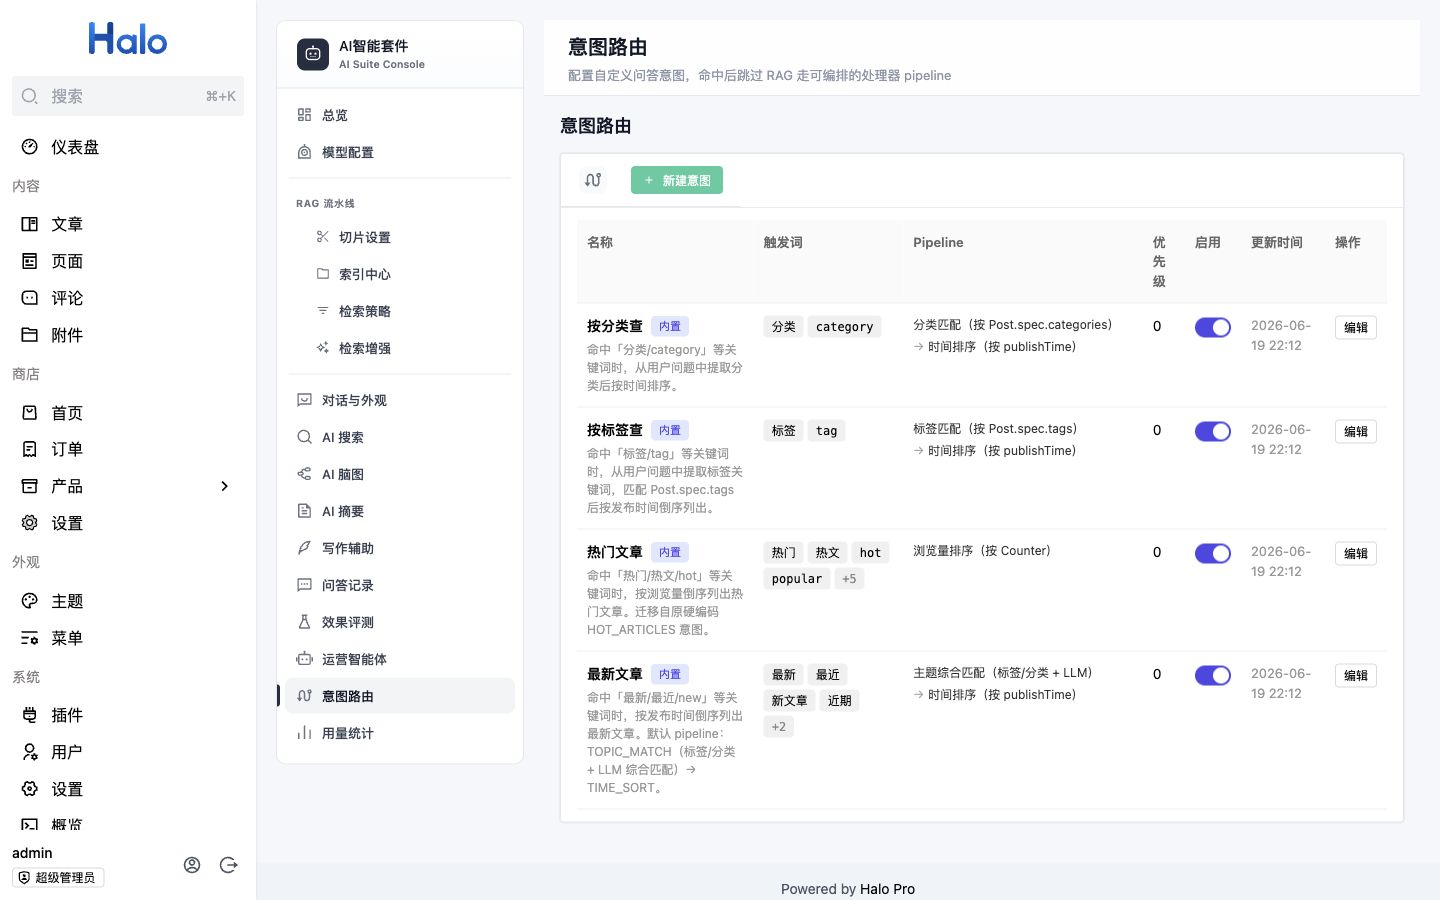
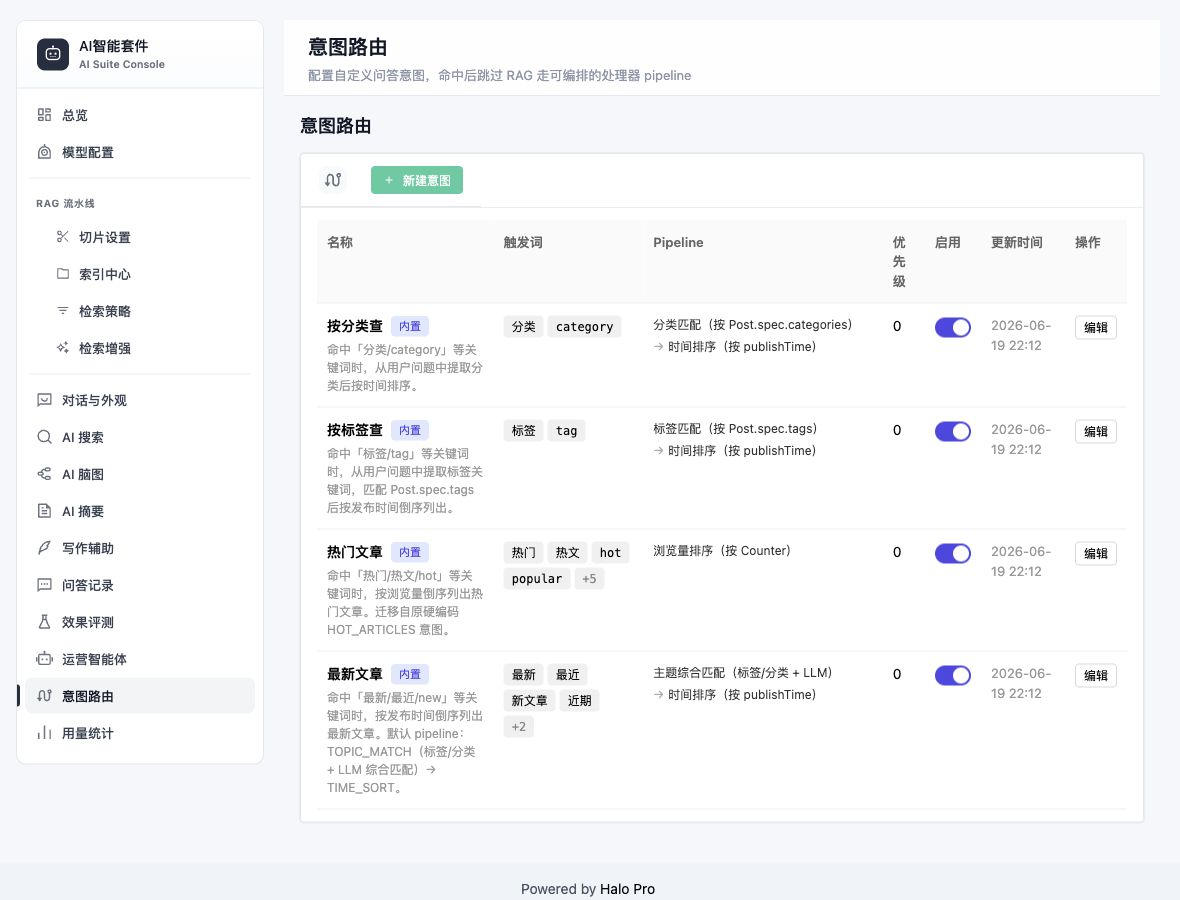
docs: expand README interface gallery

diff --git a/README.md b/README.md
@@ -61,23 +61,41 @@
 
 ### 访客端
 
+#### RAG 智能问答
+
+[![访客端 RAG 智能问答与文章引用](assets/readme/screenshots/visitor-chat.jpg)](assets/readme/screenshots/visitor-chat.jpg)
+
+基于博客内容回答，展示文章引用与反馈操作。
+
+#### 文章 AI 脑图
+
 <p align="center">
-  <a href="assets/readme/screenshots/visitor-chat.jpg"><img src="assets/readme/screenshots/visitor-chat.jpg" alt="访客端 RAG 智能问答与文章引用" width="42%"></a>
-  &nbsp;&nbsp;
-  <a href="assets/readme/screenshots/visitor-mindmap.jpg"><img src="assets/readme/screenshots/visitor-mindmap.jpg" alt="文章页 AI 思维导图" width="42%"></a>
+  <a href="assets/readme/screenshots/visitor-mindmap.jpg"><img src="assets/readme/screenshots/visitor-mindmap.jpg" alt="文章页 AI 思维导图" width="90%"></a>
 </p>
 
-<p align="center"><sub>左：RAG 智能问答、文章引用与反馈　·　右：文章页可交互 AI 思维导图</sub></p>
+<p align="center"><sub>聚焦显示文章结构，支持节点折叠、展开与原文跳转。</sub></p>
 
 ### Console 管理端
 
-<a href="assets/readme/screenshots/console-dashboard.jpg"><img src="assets/readme/screenshots/console-dashboard.jpg" alt="AI 智能套件 Console 总览" width="100%"></a>
+| 索引中心 | 意图路由 |
+| --- | --- |
+| [![AI 智能套件索引中心](assets/readme/screenshots/console-knowledge.jpg)](assets/readme/screenshots/console-knowledge.jpg) | [![意图路由管理页面](assets/readme/screenshots/console-intent-routes.jpg)](assets/readme/screenshots/console-intent-routes.jpg) |
+| 查看索引健康度、切片、关键词覆盖与维护建议 | 管理触发词、处理器 Pipeline、优先级与启用状态 |
 
-<p align="center"><sub>Console 总览：索引健康度、访客问答、模型用量与功能开关</sub></p>
+| 检索增强 | AI 搜索 |
+| --- | --- |
+| [![检索增强配置页面](assets/readme/screenshots/console-enhance.jpg)](assets/readme/screenshots/console-enhance.jpg) | [![AI 搜索配置与实时预览](assets/readme/screenshots/console-search.jpg)](assets/readme/screenshots/console-search.jpg) |
+| 配置 Query Rewrite、HyDE、Rerank 与跨语言检索 | 调整回答策略、界面主题，并实时预览搜索卡片 |
 
-<a href="assets/readme/screenshots/console-intent-routes.jpg"><img src="assets/readme/screenshots/console-intent-routes.jpg" alt="意图路由管理页面" width="100%"></a>
+| AI 脑图 | 写作辅助 |
+| --- | --- |
+| [![AI 脑图配置与管理页面](assets/readme/screenshots/console-mindmap.jpg)](assets/readme/screenshots/console-mindmap.jpg) | [![编辑器 AI 写作辅助配置页面](assets/readme/screenshots/console-writing.jpg)](assets/readme/screenshots/console-writing.jpg) |
+| 设置生成参数、独立主题，并管理文章脑图 | 配置编辑器 AI 动作、写作模型与大纲生成 |
 
-<p align="center"><sub>意图路由：触发词、处理器 Pipeline、优先级与启用状态</sub></p>
+| 效果评测 | 运营智能体 |
+| --- | --- |
+| [![RAG 效果评测页面](assets/readme/screenshots/console-evaluation.jpg)](assets/readme/screenshots/console-evaluation.jpg) | [![内容缺口运营智能体页面](assets/readme/screenshots/console-agent.jpg)](assets/readme/screenshots/console-agent.jpg) |
+| 管理评测集、运行范围与回答质量指标 | 分析站内内容缺口，生成选题与旧文更新建议 |
 
 ## 快速开始
 